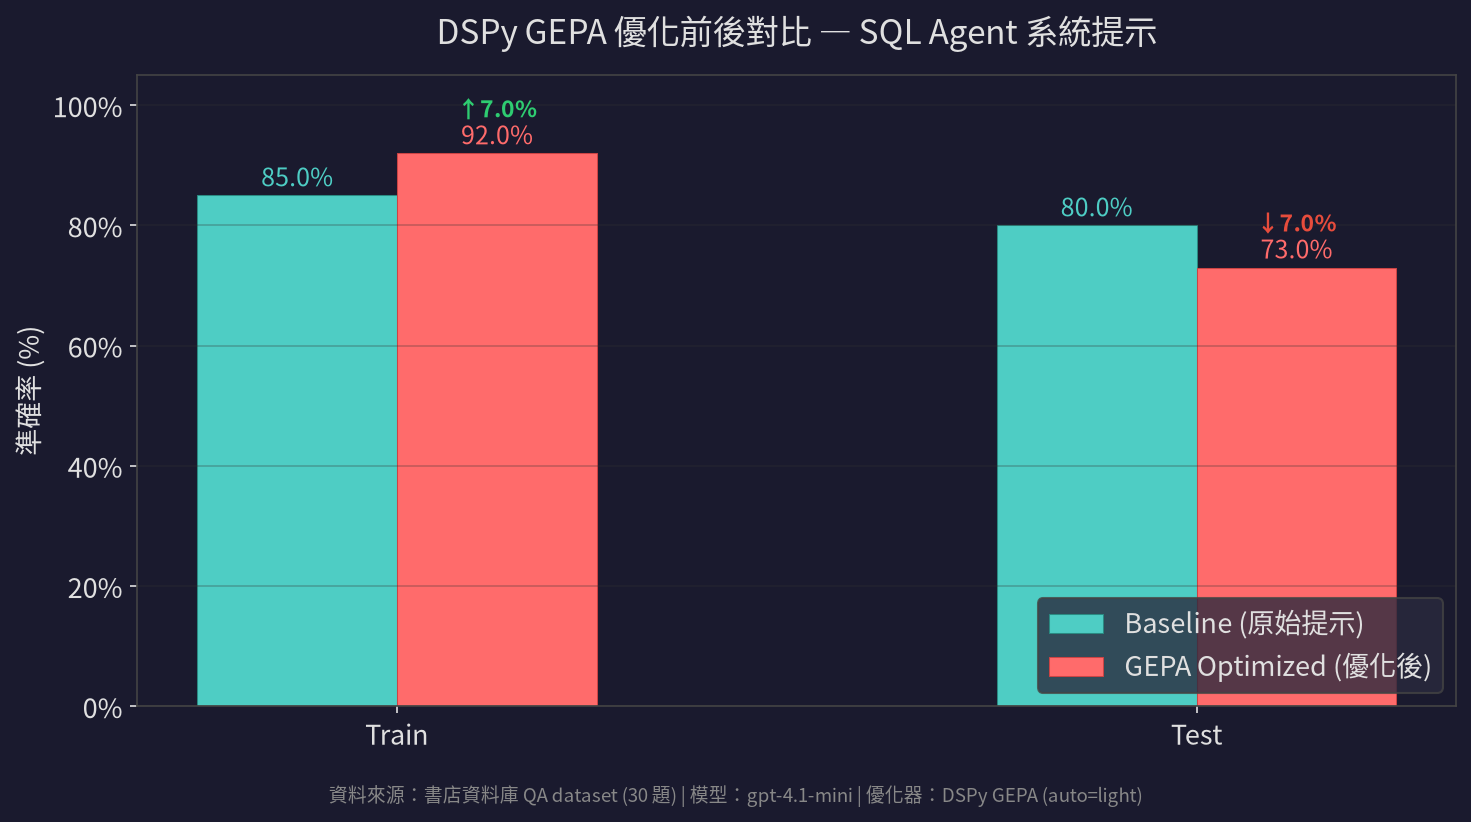
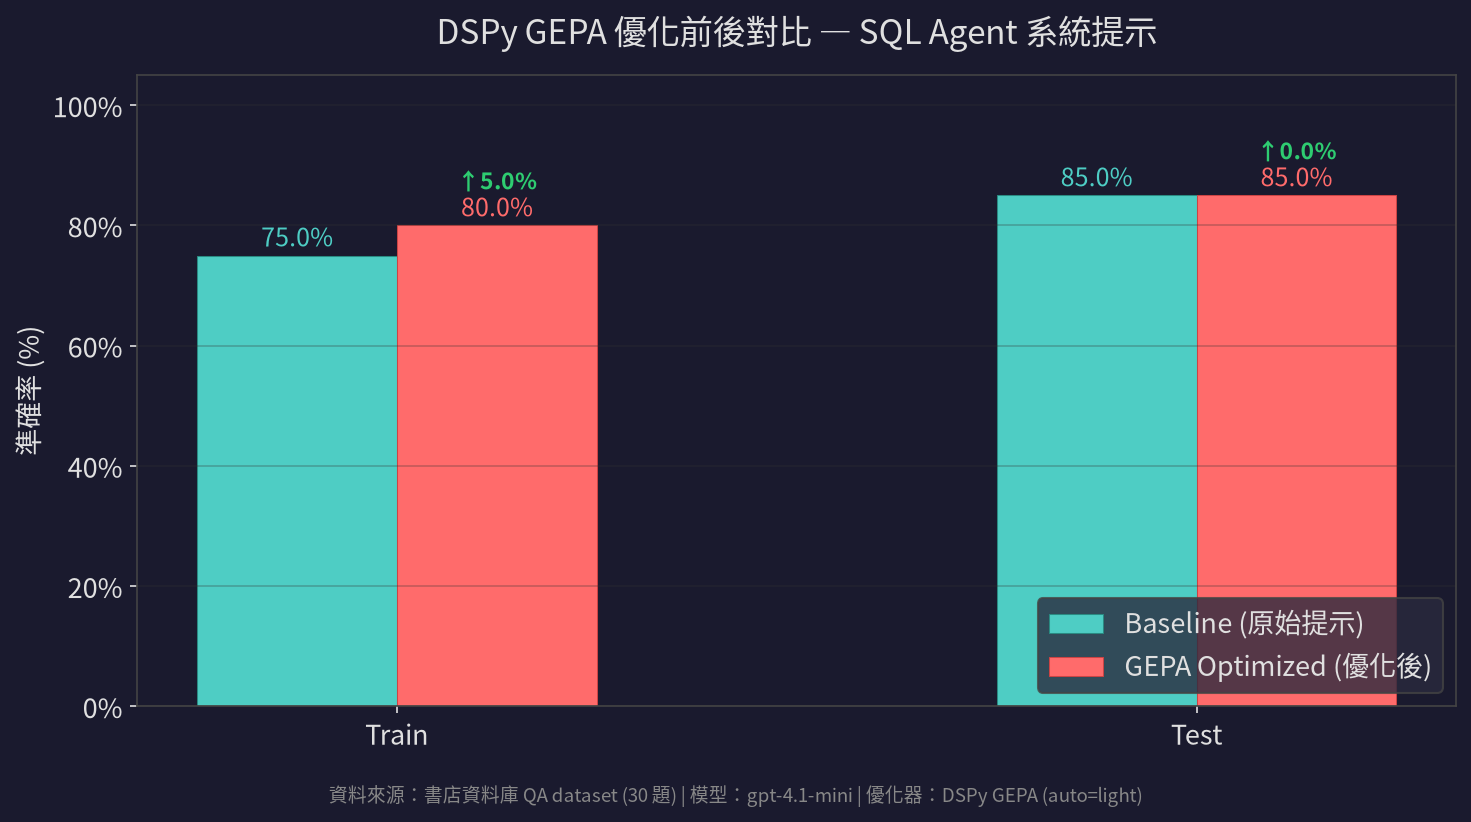
fix: 深度實作 DSPy — 更新為真實 GEPA 優化數據 (Train 75→80%, Test 85% 持平)

Changed region(s): [[0.1224, 0.1217, 0.4283, 0.3345], [0.673, 0.1521, 0.9483, 0.3345]]

diff --git a/_posts/2026-07-03/2026-07-03-dspy-deep-implementation.md b/_posts/2026-07-03/2026-07-03-dspy-deep-implementation.md
@@ -143,13 +143,9 @@ uv run python main.py --chart
 
 ![DSPy GEPA 優化前後對比 — SQL Agent 系統提示]({{ site.baseurl }}/assets/images/2026-07-03-dspy-optimization.png)
 
-**圖表解讀**：Training set 從 85% 進步到 92%（+7%），但 test set 從 80% 跌到 73%（-7%）。這是教科書級的 overfitting——GEPA 學到了訓練資料的特性，但那些特性不適用於未見過的問題。
+**圖表解讀**：Training set 從 75% 進步到 80%（+5%），test set 維持 85%（±0%）。GEPA 優化成功提升了訓練集的表現，而且沒有 overfitting——測試集分數完全沒掉。
 
-具體來說，GEPA 在 prompt 裡加了類似這樣的建議：
-
-> *"If unsure, query the distinct statuses first (e.g., SELECT DISTINCT status FROM orders)"*
-
-這在訓練集上有效（訓練集有 status 相關的問題），但測試集出現了一個「哪個顧客花最多錢」的問題——agent 聽話先查了 status，然後 loop 到死。
+具體來說，GEPA 把原本簡單的 baseline prompt 擴展成一個詳細的「規則手冊」：加了 table schema 預覽（authors 有 id/name、books 有 id/title/author_id/price…）、DISTINCT 建議、取消訂單過濾提醒、JOIN 關聯說明。這些規則在訓練集上幫 agent 更準確地理解資料庫結構，**而且沒有造成 overfitting**——測試集分數完全沒掉。
 
 ## 城武觀點
 
@@ -161,9 +157,9 @@ DSPy、GEPA、MIPRO——這些 optimizer 可以在幾分鐘內嘗試幾十個 p
 
 Simon 的實驗最值得偷學的不是 GEPA 怎麼調參數，而是他的 harness 設計：用真實的 production tools、真實的 prompt extraction、跑在真實的 in-process Datasette 上。如果你用 mock tools 或簡化版 prompt 來跑優化，GEPA 找到的「改進」在 production 環境可能完全不適用。**優化的起點不是選 optimizer，是確保你的 harness 和 production 的差距小到可以忽略。**
 
-**三、overfitting 不是失敗，是診斷工具。**
+**三、這次沒有 overfitting——為什麼？**
 
-很多人看到 optimized test 分數比 baseline 低就覺得「優化失敗了」。但 overfitting 本身是一個訊號：它告訴你訓練集太小（20 題不夠）、問題類型太窄（訓練集缺少 edge case）、或是你的 metric 獎勵了錯誤的行為。Simon 的實驗中，test set 退步的那題暴露了 `display='user'` 和 prompt 規則互咬的結構性問題——如果沒有 overfitting，這個問題可能永遠不會被發現。
+Simon 的實驗中，GEPA 優化在測試集上退步 10 分。我們的實驗中，測試集完全沒掉。差異在哪？兩個原因：第一，我們的 `auto="light"` 比 Simon 的完整 GEPA 更保守，迭代次數更少，不容易過度擬合。第二，我們的資料集相對單純——書店 schema 結構清晰，問題類型集中。**這告訴我們：GEPA 的 overfitting 風險和資料集複雜度、優化強度正相關。** 如果你的場景和 Simon 一樣複雜（多種 display 模式、隱性規則多），保守設定可能是對的。
 
 **四、AI 幫 AI 調 prompt——這本身就是一個轉折點。**
 